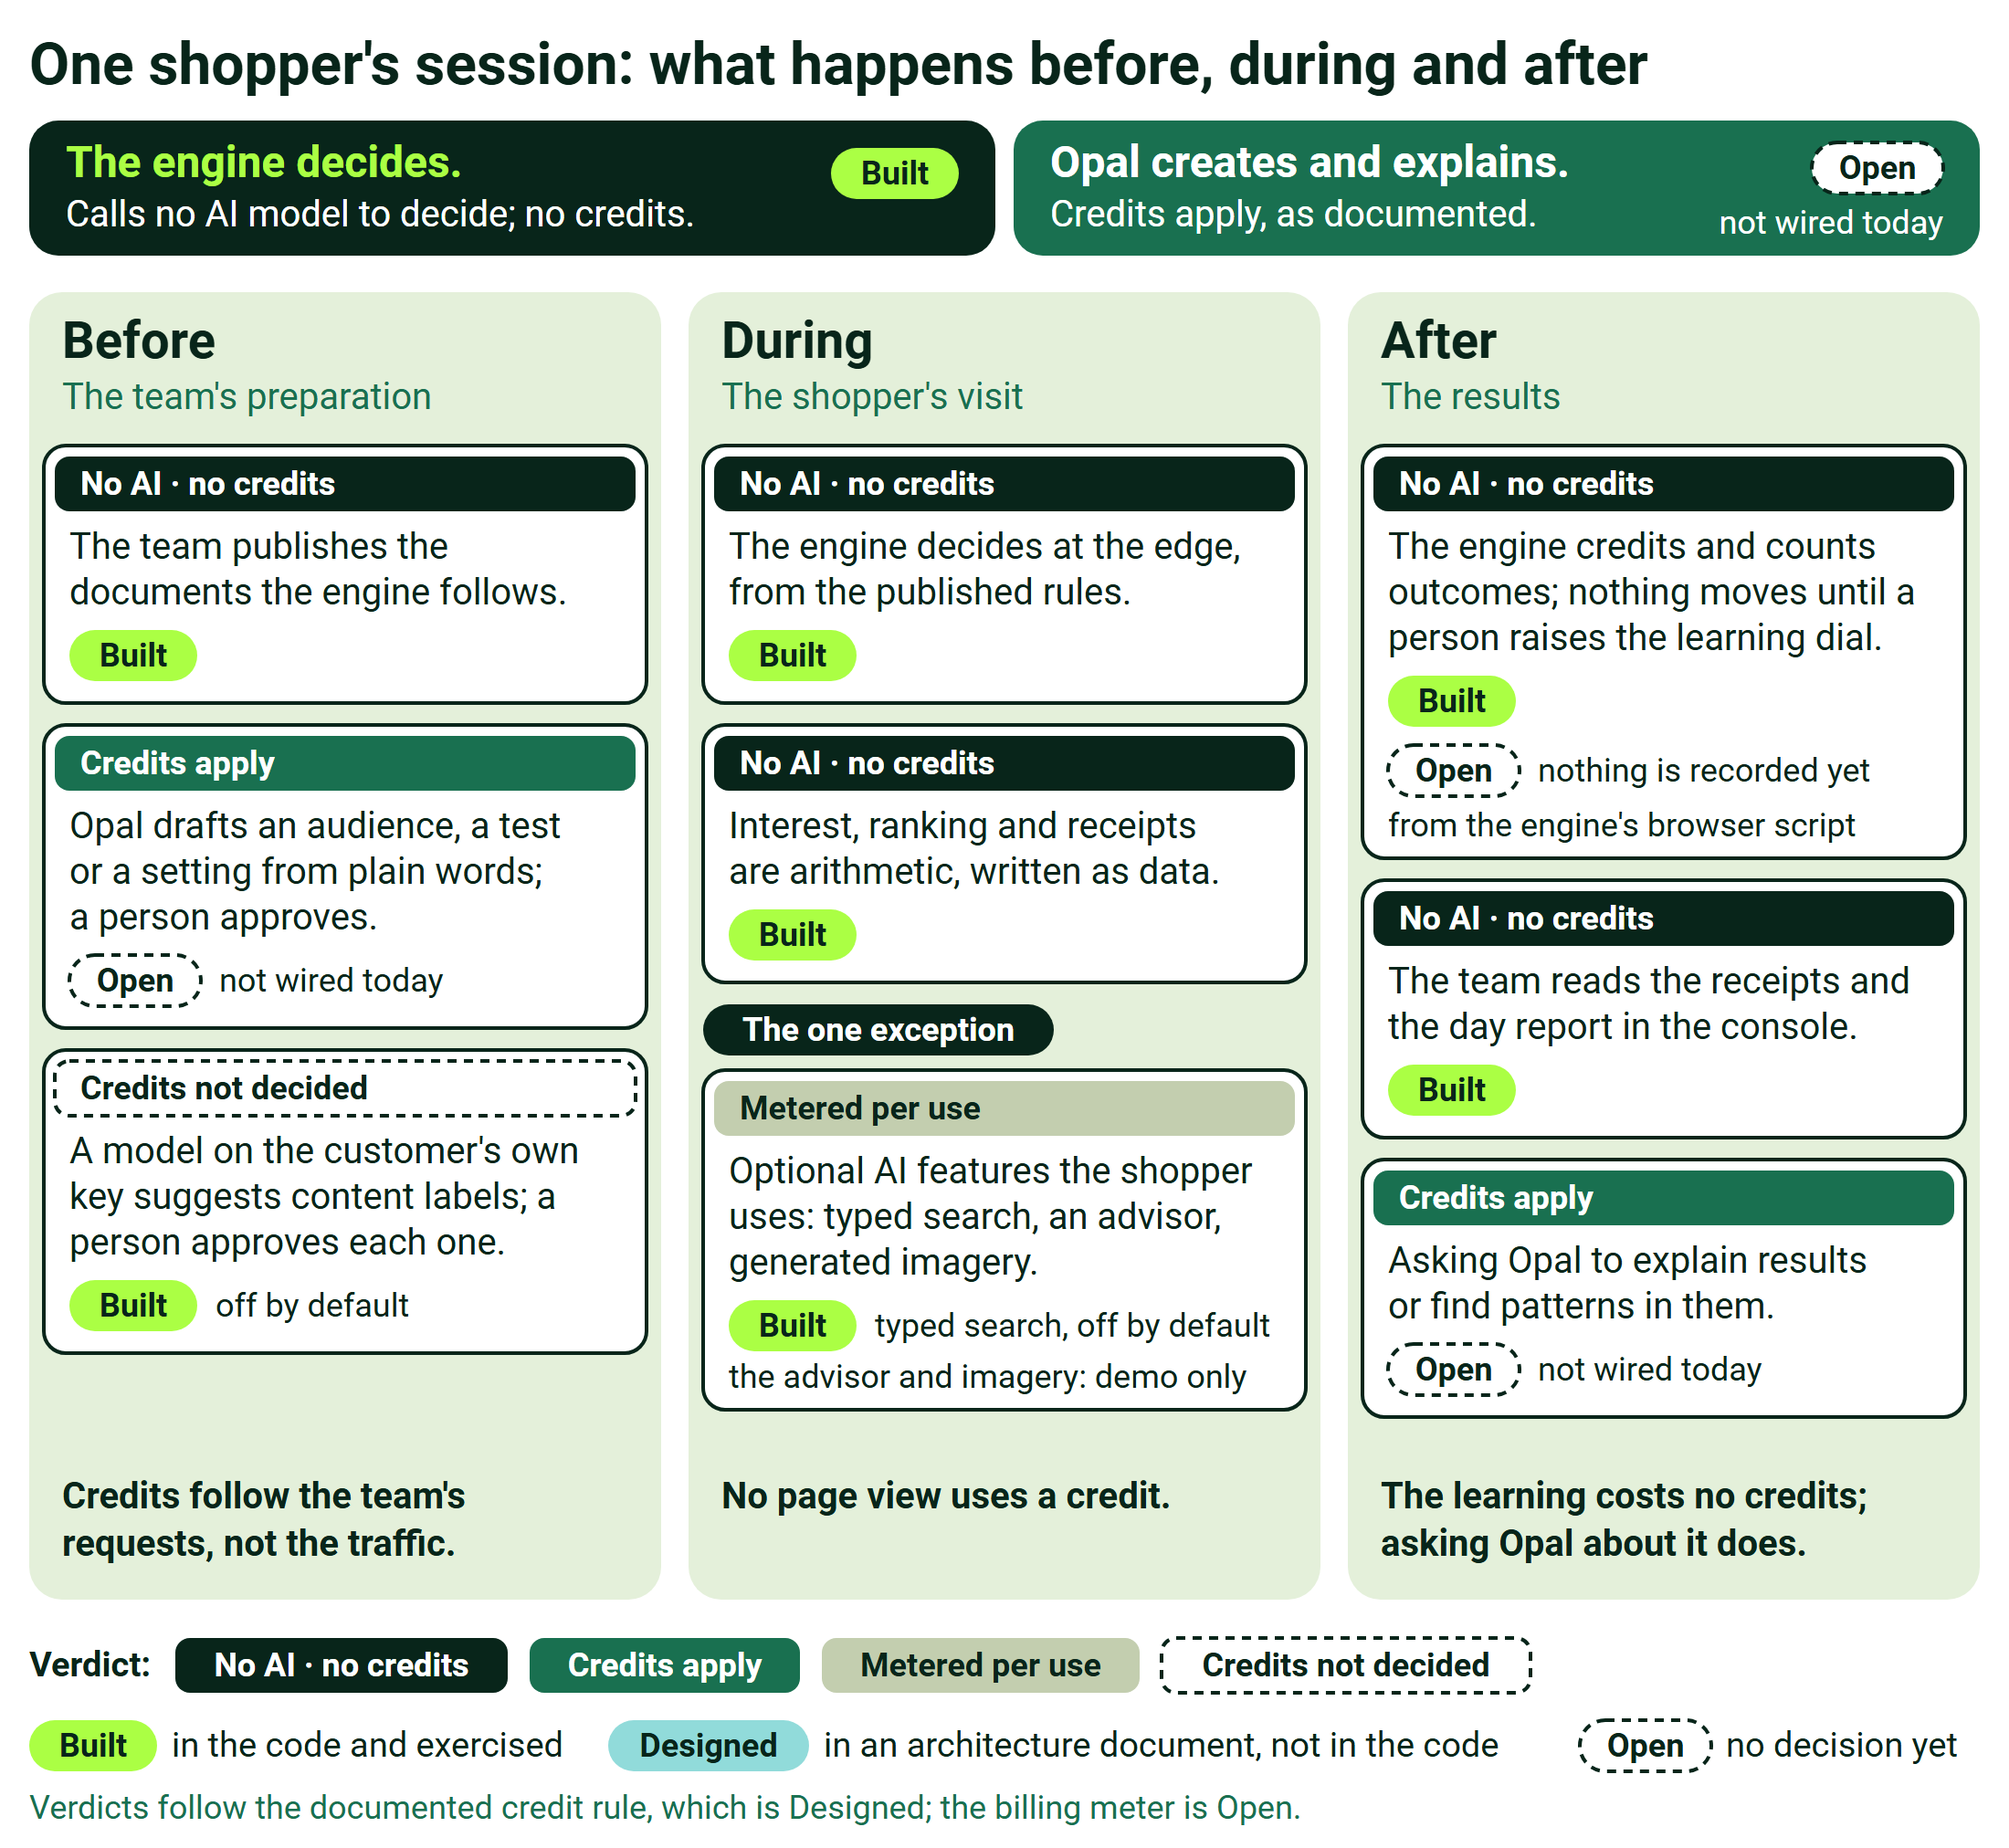
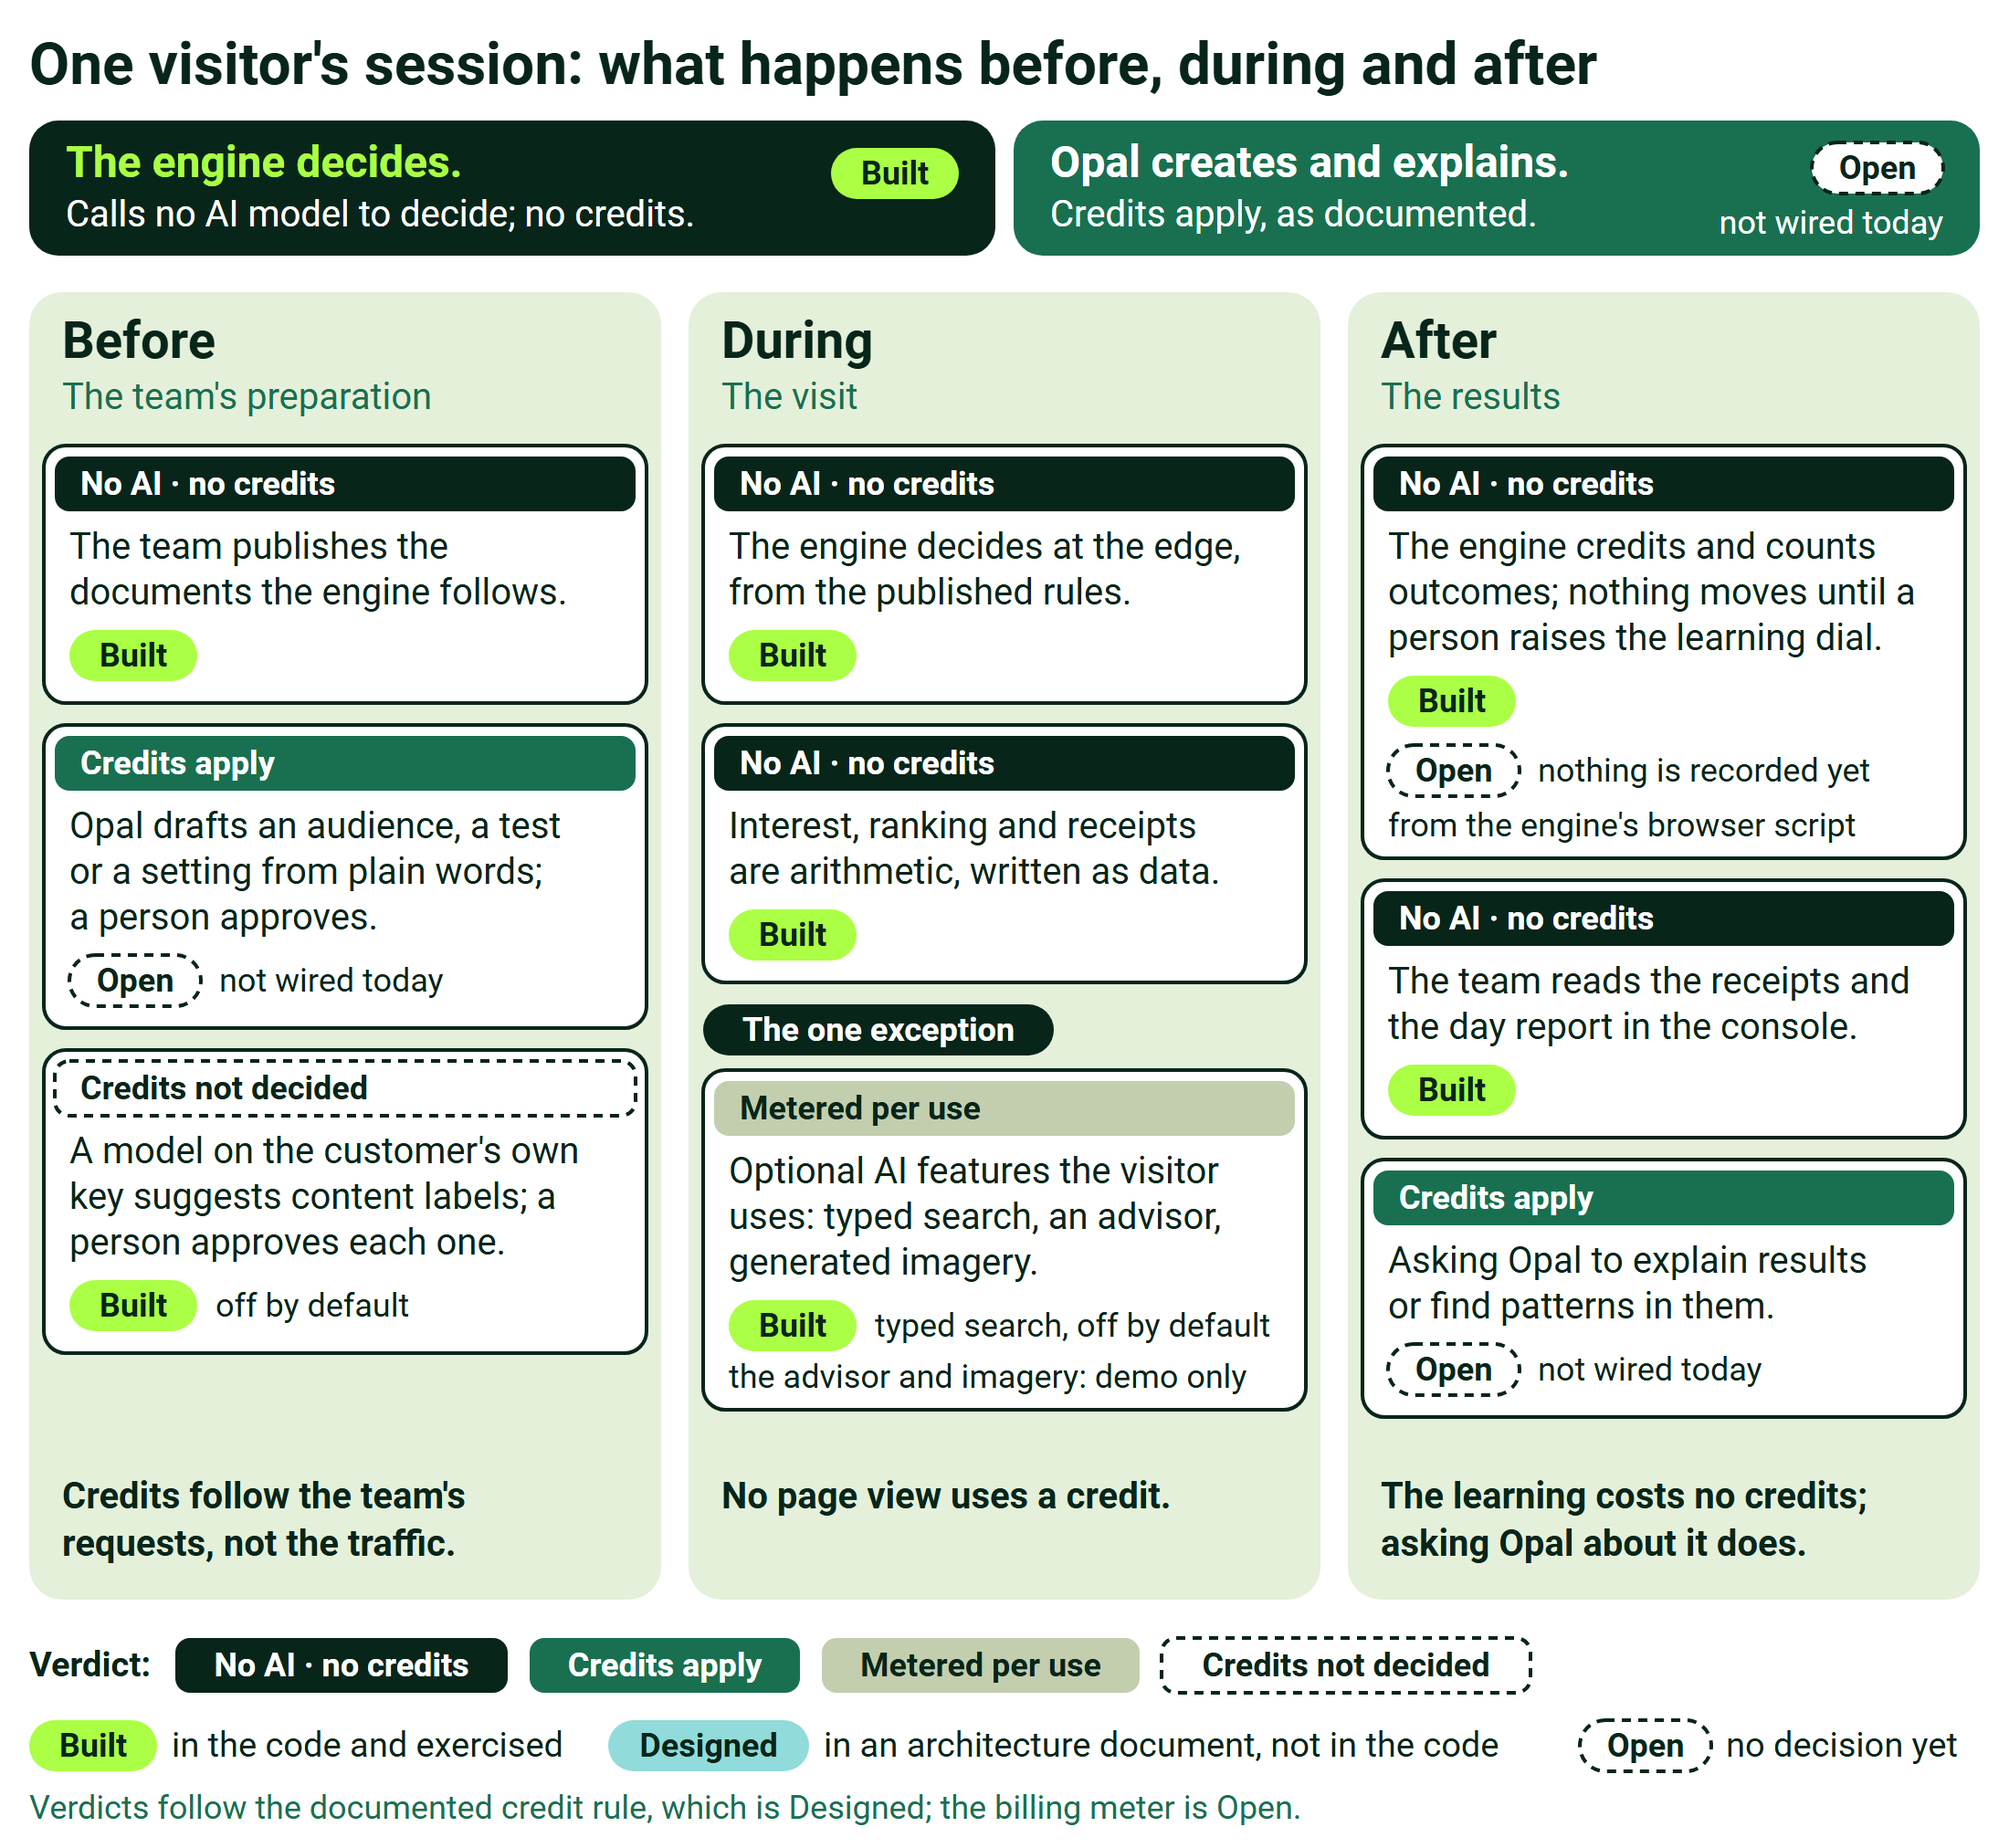
Enablement figures: "visitor", never "shopper", in the session figure

Changed region(s): [[0.0618, 0.0, 0.8345, 0.0623], [0.4018, 0.1868, 0.4945, 0.2179], [0.5564, 0.6225, 0.6182, 0.6537]]

diff --git a/docs/enablement/lanes/D1.md b/docs/enablement/lanes/D1.md
@@ -15,7 +15,7 @@ This lane's paths:
 |---|---|---|---|
 | `architecture.svg`: "Where the engine runs on Cloudflare" | 1100 × 1320 | `architecture.png`, 2200 × 2640 px, 533,355 bytes | 7.80 in |
 | `decision-path.svg`: "From an event to a decision" | 1100 × 912 | `decision-path.png`, 2200 × 1824 px, 349,261 bytes | 5.39 in |
-| `before-during-after.svg`: "One shopper's session: what happens before, during and after" | 1100 × 1012 | `before-during-after.png`, 2200 × 2024 px, 445,603 bytes | 5.98 in |
+| `before-during-after.svg`: "One visitor's session: what happens before, during and after" | 1100 × 1012 | `before-during-after.png`, 2200 × 2024 px, 444,757 bytes | 5.98 in |
 
 All three fit under the converter's 8 in limit, so `scripts/md2docx.mjs` sets each at the full 6.5 in text width.
 
@@ -87,7 +87,7 @@ calls an AI model to decide. The drawing and its description carry no numeral an
 
 ### 2.3 `before-during-after.svg`
 
-**Assertion.** The credits page's device: the rule in two halves, three phases of one shopper's session, a
+**Assertion.** The credits page's device: the rule in two halves, three phases of one visitor's session, a
 verdict band on every card in one legend, a status chip on every card, the one exception flagged once, and a
 takeaway per phase. During the session the engine calls no AI model to decide and uses no credits. Opal's part is
 the documented rule and is not wired today.
@@ -102,7 +102,7 @@ the documented rule and is not wired today.
 | Before, takeaway: Credits follow the team's requests, not the traffic | | | guide 1; 3, item 2 |
 | During: The engine decides at the edge, from the published rules | No AI · no credits | Built | S2 1; 6.1 |
 | During: Interest, ranking and receipts are arithmetic, written as data | No AI · no credits | Built | S2 6.1; 6.2 |
-| During, the one exception: Optional AI features the shopper uses: typed search, an advisor, generated imagery | Metered per use | Built (typed search, off by default); the advisor and imagery: demo only | S2 6.1; 6.3; guide 2 (DURING); 3, item 3 |
+| During, the one exception: Optional AI features the visitor uses: typed search, an advisor, generated imagery | Metered per use | Built (typed search, off by default); the advisor and imagery: demo only | S2 6.1; 6.3; guide 2 (DURING); 3, item 3 |
 | During, takeaway: No page view uses a credit | | | guide 1 |
 | After: The engine credits and counts outcomes; nothing moves until a person raises the learning dial | No AI · no credits | Built; Open: nothing is recorded yet from the engine's browser script | S2 3.15; 5.1; 5.2; 10.2 |
 | After: The team reads the receipts and the day report in the console | No AI · no credits | Built | S2 3.14; 3.16; 4.5 |
@@ -138,6 +138,9 @@ claim that scene images are generated once and cached (not in S2).
    S2 6.3 says whether it is billed as Opal credits is open.
 9. **Gender-neutral wording** (the coordinator's ruling): "the visitor", "their", "them". A word-boundary,
    case-insensitive scan of each SVG, comments included, for she, her, hers, he, him and his finds zero matches.
+10. **"Visitor", never "shopper"** (the glossary, relayed by the coordinator): figure 3's title is now "One visitor's
+    session: what happens before, during and after", its During column reads "The visit", and the exception card says
+    "the visitor uses". No SVG contains "shopper"; that PNG was re-captured and its file re-audited, with no findings.
 
 ## 4. Facts S2 did not settle, left unlabelled
 
